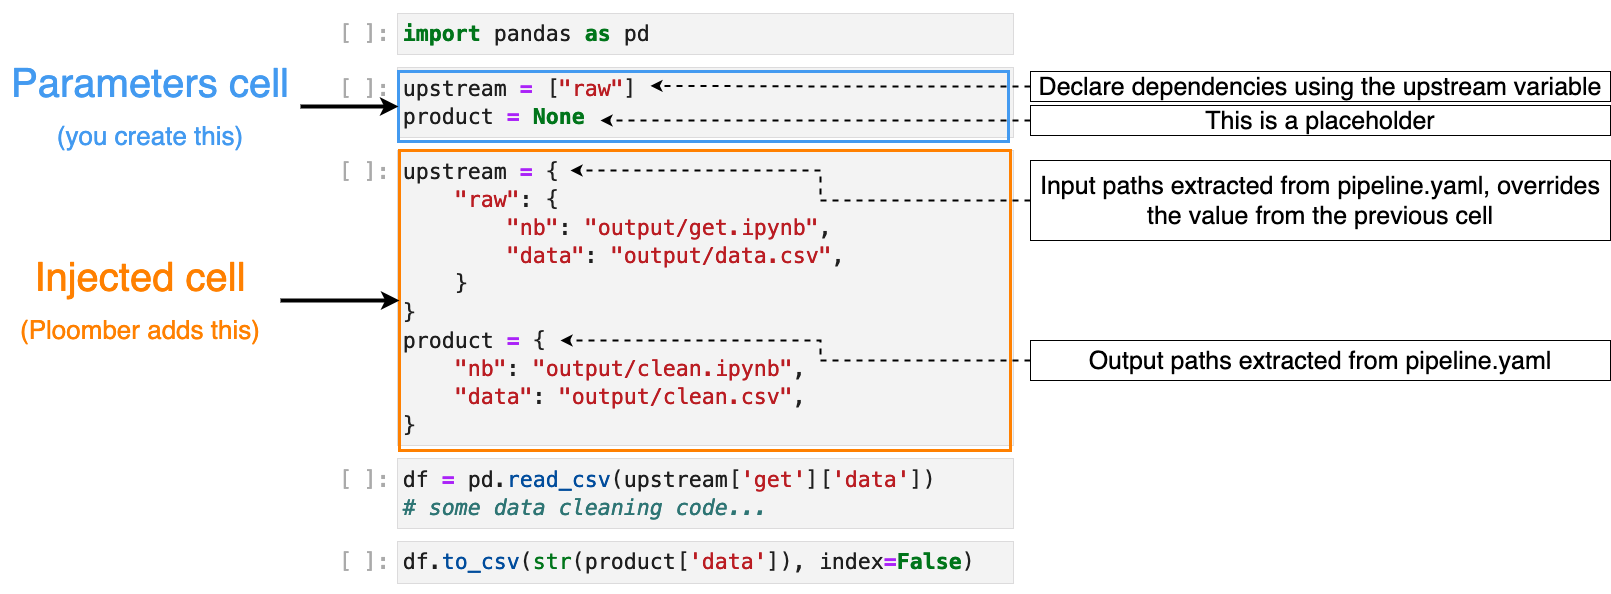
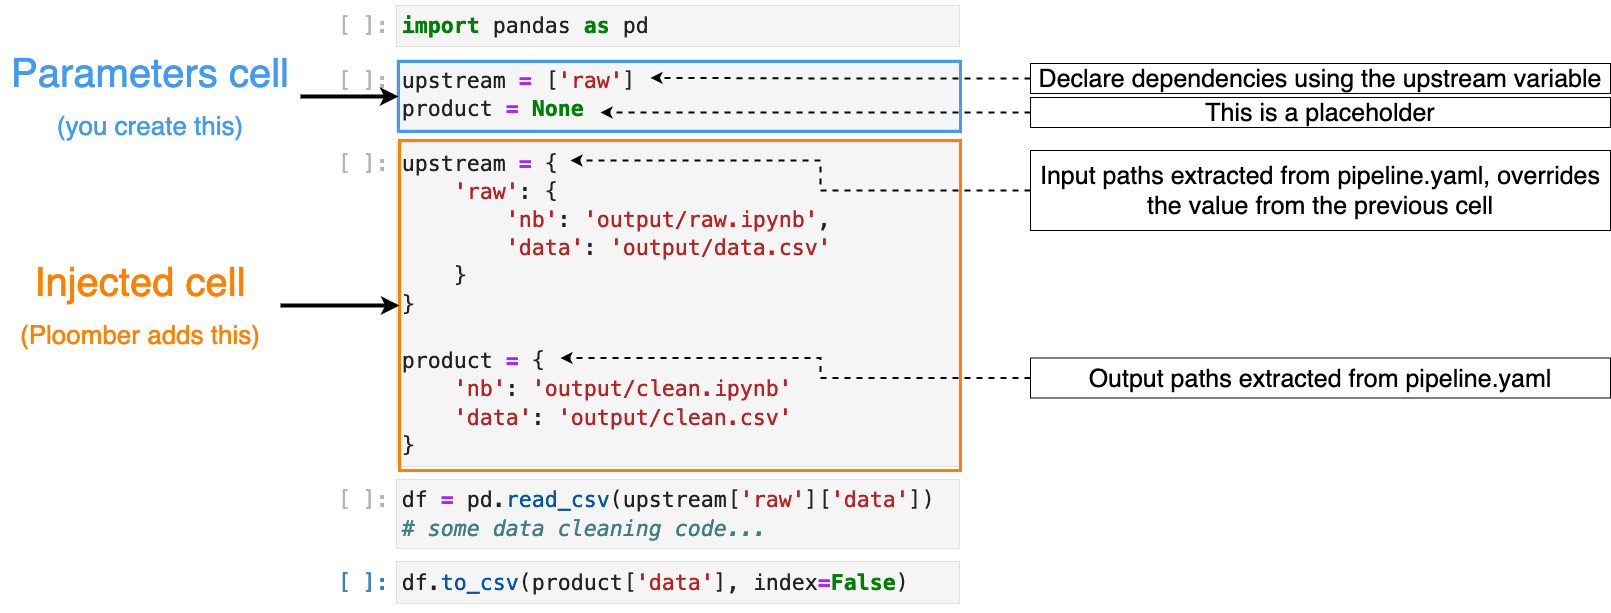
fixes to basic-concepts tutorial

diff --git a/doc/get-started/basic-concepts.rst b/doc/get-started/basic-concepts.rst
@@ -20,7 +20,7 @@ make our code more maintainable and easier to test:
    
     <div class="mermaid">
     graph LR
-        raw --> clean --> plot
+        1-raw --> 2-clean --> 3-plot
     </div>
 
 
@@ -175,11 +175,11 @@ Let's review the contents a sample ``clean.py`` file:
    import pandas as pd
 
    # %% tags=["parameters"]
-   upstream = ["raw"]
+   upstream = ['raw']
    product = None
 
    # %%
-   df = pd.read_csv(upstream['get']['data'])
+   df = pd.read_csv(upstream['raw']['data'])
    # some data cleaning code...
 
    # %%
